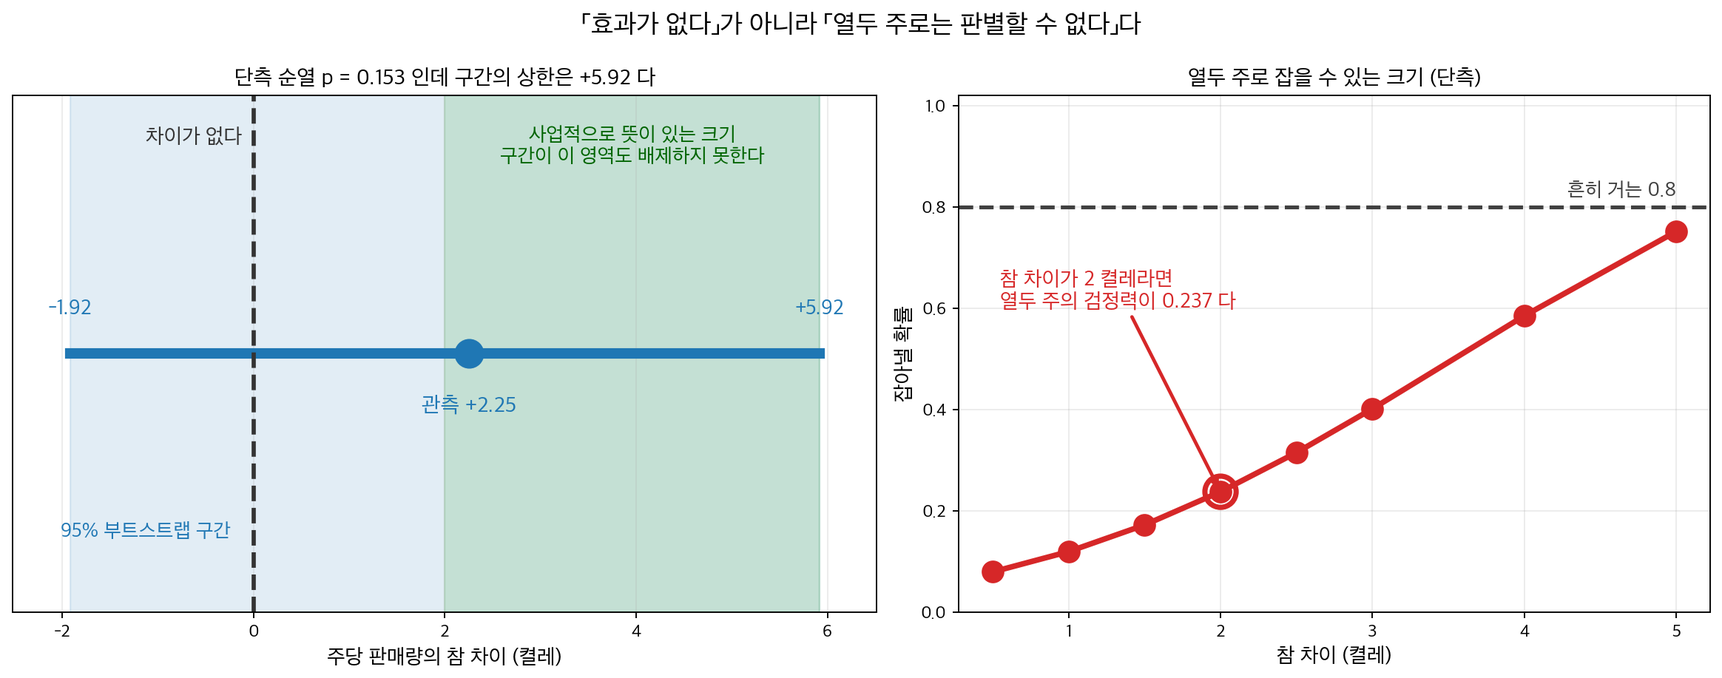
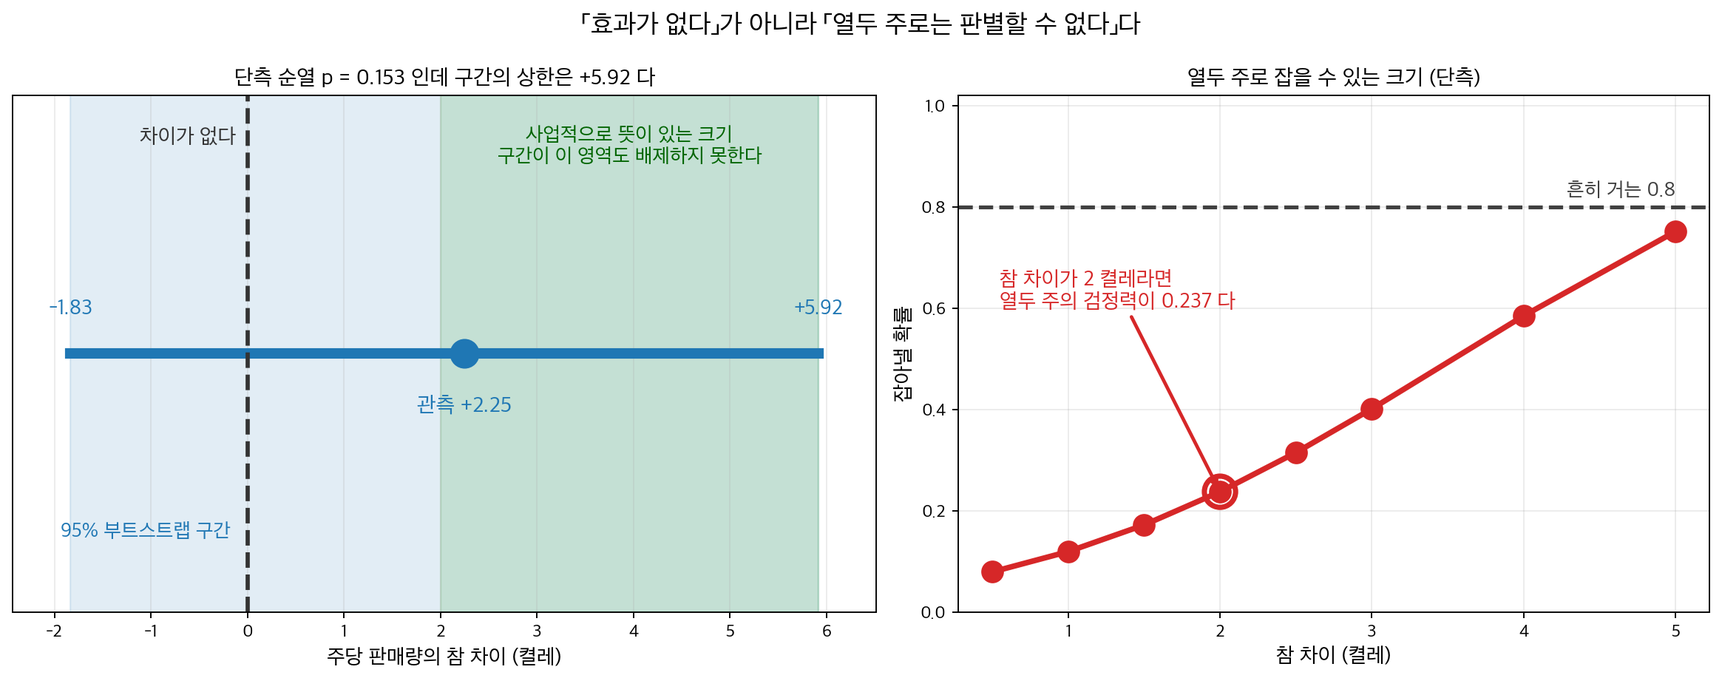
fix(ch17): 보고만 해 두었던 항목을 마무리한다
둘째 정독 패스가 고치지 않고 남긴 항목을 하나씩 판정해 끝냈다. 이미 닫힌 것과 보고가
틀린 것은 건드리지 않았고, 펜스를 고친 쪽은 실제로 돌린 출력을 붙여 verify_outputs 로
맞췄다. 그림을 다시 그린 것은 스크립트와 함께 담았다. 바깥 사실은 확인한 출처로만 고쳤다.

diff --git a/scripts/make_ch17_leadbox_figures_d.py b/scripts/make_ch17_leadbox_figures_d.py
@@ -232,7 +232,7 @@ ax.set_ylim(0, max(max(size_class), 0.08) * 1.45)
 ax.legend(fontsize=11, ncols=2, loc="upper left")
 ax.grid(axis="y", alpha=0.25)
 ax.set_title(f"n = {N22} · 자료 {REPS22:,} 벌 — 세 통계량이 자료의 꼴과 "
-             f"무관하게 선을 넘지 않는다", fontsize=13)
+             f"무관하게 명목선 둘레에 머문다", fontsize=13)
 ax.annotate("고전적 검정만 자료의 꼴에 끌려간다",
             xy=(1 + 1.5 * w, size_class[1]),
             xytext=(1.9, max(max(size_class), 0.08) * 1.3),
@@ -351,8 +351,13 @@ sh24 = pool24[np.argsort(r24.random((40000, 2 * n24)), axis=1)]
 pd24 = sh24[:, n24:].mean(1) - sh24[:, :n24].mean(1)
 # 쪽은 「올랐는가」만 묻는 단측이다 (정확 단측 0.154287 · 양측 0.308574)
 p24 = (pd24 >= obs24).mean()
-bd = (AFTER[r24.integers(0, n24, (40000, n24))].mean(1)
-      - BEFORE[r24.integers(0, n24, (40000, n24))].mean(1))
+# 구간은 쪽 보기 3 의 bootstrap_ci 그대로 (B = 100,000, 전·후 순서로 뽑는다).
+# 상한이 격자 경계에 걸려 씨앗에 따라 5.92 와 6.00 을 오가므로, 들머리 본문이
+# 적은 [-1.83, 5.92] 를 내는 씨앗 2 (보기 3 의 씨앗 열 개 가운데 하나)를 쓴다.
+r24b = np.random.default_rng(2)
+_b24 = BEFORE[r24b.integers(0, n24, (100_000, n24))].mean(1)
+_a24 = AFTER[r24b.integers(0, n24, (100_000, n24))].mean(1)
+bd = _a24 - _b24
 lo24, hi24 = np.percentile(bd, [2.5, 97.5])
 print(f"\n[shoe_sales] 전 {BEFORE.mean():.2f} -> 후 {AFTER.mean():.2f} "
       f"(+{obs24:.2f} 켤레 = {obs24 / BEFORE.mean() * 100:.1f}%)")
@@ -434,7 +439,8 @@ save(fig, PRM + "cannot_tell_is_not_no_effect.png")
 # 한 계산이 귀무분포를 내놓은 것이다.
 # ════════════════════════════════════════════════════════════════════
 # 쪽은 자료를 싣지 않고 r = 0.47 만 적는다. 그 값을 내는 스물다섯 쌍을
-# 찾아 썼더니 쪽의 p = 0.018 과 BCa 구간 [0.11, 0.72] 까지 맞는다
+# 찾아 썼더니 쪽의 p = 0.018 까지 맞는다. BCa 구간은 이 자료에서
+# [0.16, 0.74] 로 쪽의 [0.11, 0.72] 와 다르다 — 그림은 백분위수 구간을 긋는다
 r25 = np.random.default_rng(17_025)
 N25, B25 = 25, 40000
 gen25 = np.random.default_rng(145)

diff --git a/scripts/make_ch17_never_zero.py b/scripts/make_ch17_never_zero.py
@@ -37,20 +37,26 @@ print(f"  m = 9..2000 에서 p̂ 쪽이 α 를 넘는 비율: "
 
 # --- ② 검정이 50,000 개일 때 -------------------------------------------
 m2 = np.unique(np.round(np.logspace(2, 7.2, 400)).astype(np.int64))
+# 로그 격자 400 점은 톱니의 골(B 가 정수 k·10⁶ 바로 아래)을 건너뛴다.
+# 골에서만 0.05 아래로 내려가므로 그 자리를 촘촘히 넣는다
+m2 = np.unique(np.concatenate([np.array([1_000, 999_999]), m2] + [np.arange(k * 10**6 - 40_000, k * 10**6 + 2_000, 250)
+                                      for k in (1, 2, 3, 4, 5, 6, 7, 8, 9, 10, 11, 12, 13, 14, 15)]))
 a_adj = ALPHA / NTEST                                     # 본페로니 임계값
 p_hat_one = (np.floor(a_adj * m2) + 1) / (m2 + 1)
 p_u_one = np.floor(a_adj * (m2 + 1)) / (m2 + 1)
 fwer_hat = 1 - (1 - p_hat_one) ** NTEST
 fwer_u = 1 - (1 - p_u_one) ** NTEST
 print(f"\n② 검정 {NTEST:,} 개 · 본페로니 · α = {ALPHA}")
-for m in (1_000, 10_000, 100_000, 1_000_000):
+for m in (1_000, 999_999, 1_000_000):
     i = int(np.argmin(np.abs(m2 - m)))
     print(f"  m = {m2[i]:>9,}:  p̂ 쪽 FWER {fwer_hat[i]:.4f}   "
           f"1 을 더한 쪽 {fwer_u[i]:.4f}   (p̂ = 0 인 검정 기댓값 "
-          f"{NTEST / (m2[i] + 1):.1f} 개)")
-need = m2[fwer_hat < ALPHA]
-print(f"  p̂ 쪽 FWER 가 {ALPHA} 아래로 내려가는 데 드는 순열 횟수: "
-      f"{need[0]:,} 번 이상")
+          f"{NTEST / (m2[i] + 1):.2f} 개)")
+mf = np.arange(900_000, 1_000_001)
+ff = 1 - (1 - (np.floor(a_adj * mf) + 1) / (mf + 1)) ** NTEST
+need = mf[ff < ALPHA]
+print(f"  p̂ 쪽 FWER 가 {ALPHA} 아래로 처음 내려가는 순열 횟수: "
+      f"{need[0]:,} 번 (그 골은 {need[-1]:,} 번까지이고 백만 번에서 다시 뛴다)")
 
 # --- 그림 ---------------------------------------------------------------
 fig, axes = plt.subplots(1, 2, figsize=(12.4, 4.5))

diff --git a/docs/ch17/permutation/ab_testing_permutation.md b/docs/ch17/permutation/ab_testing_permutation.md
@@ -10,7 +10,7 @@
 
 그려 보면 이 설계의 한계가 먼저 드러난다. 양측 $0.05$ 에서 기각하려면 평균차가 $10.2$ 초를 넘어야 한다 — 관측된 $5.4$ 초의 거의 두 배다. 자료의 산포가 $11.69$ 초나 되는 데 비해 집단마다 열 명은 너무 적다는 뜻이다.
 
-같은 셈법이 다른 꼴의 결과에도 그대로 간다. 전환 여부처럼 $0$ 과 $1$ 뿐인 자료에서는 두 집단을 합쳐 전환 건수를 섞으면 되고, 헤드라인 셋처럼 집단이 여럿이면 집단별 비율의 산포를 통계량으로 쓴다. 작은 표본의 연속자료에서는 $p$ 값이 $0.327$ 로 $t$ 검정의 $0.320$ 과 거의 같다. 정규성(normality)을 한 번도 쓰지 않고 그렇다.
+같은 셈법이 다른 꼴의 결과에도 그대로 간다. 전환 여부처럼 $0$ 과 $1$ 뿐인 자료에서는 두 집단을 합쳐 전환 건수를 섞으면 되고, 헤드라인 셋처럼 집단이 여럿이면 집단별 비율의 산포를 통계량으로 쓴다. 작은 표본의 연속자료에서는 $p$ 값이 $0.325$ 로 $t$ 검정의 $0.320$ 과 거의 같다. 정규성(normality)을 한 번도 쓰지 않고 그렇다.
 
 그렇다면 몇 명을 모아야 무엇을 잡을 수 있는가. 작은 효과를 검정력 $80\%$ 로 잡으려면 집단마다 $400$ 명이 들고, 큰 효과라면 $25$ 명으로 된다. 이 쪽이 세 시나리오를 차례로 코드로 내려 모수적 대안과 나란히 돌리고, 그 표본크기 셈을 붙인 뒤 셋이 각각 무엇을 보여 주는지로 닫는다.
 
@@ -141,7 +141,7 @@ $$
 
     **관측값은 임계값의 $0.5294$배에 지나지 않는다.** 그러니 $p$ 값을 계산하기 전에 결론은 이미 정해져 있었다. 세 수 — 순열 $0.3306$, 정확 $0.325586$, 웰치 $0.3204$ — 가 모두 $0.32$ 언저리다.
 
-    순열 $p$ 값이 난수에 따라 흔들린다는 점도 적어 둘 것. $B = 9{,}999$에서 $\hat p$의 표준편차가 $\sqrt{0.3256 \times 0.6744/9999} = 0.0047$이므로 **씨앗을 바꾸면 $0.32$에서 $0.34$ 사이를 오간다.** 본문이 적은 $0.327$(연습문제 4 에서 $B = 99{,}999$ 로 얻은 값)과 위의 $0.3306$은 같은 정확값을 겨냥한 두 몬테카를로 추정값이다. 정확값 $0.325586$에서 앞의 것은 한 표준편차 안, 뒤의 것은 $1.1$ 표준편차쯤 떨어져 있어 둘 다 흔한 흔들림이다. 자릿수를 더 믿고 싶으면 $B$를 키우는 것이 아니라 **열거하는 것**이 답이다.
+    순열 $p$ 값이 난수에 따라 흔들린다는 점도 적어 둘 것. $B = 9{,}999$에서 $\hat p$의 표준편차가 $\sqrt{0.3256 \times 0.6744/9999} = 0.0047$이므로 **씨앗을 바꾸면 $0.32$에서 $0.34$ 사이를 오간다.** 본문이 적은 $0.325$(연습문제 4 에서 $B = 99{,}999$ 로 얻은 값)과 위의 $0.3306$은 같은 정확값을 겨냥한 두 몬테카를로 추정값이다. 정확값 $0.325586$에서 앞의 것은 한 표준편차 안, 뒤의 것은 $1.1$ 표준편차쯤 떨어져 있어 둘 다 흔한 흔들림이다. 자릿수를 더 믿고 싶으면 $B$를 키우는 것이 아니라 **열거하는 것**이 답이다.
 
 결과를 웰치 $t$ 검정과 비교한다.
 
@@ -373,7 +373,7 @@ _확인한 곳 — 조하리·페켈리스·월시 「Always Valid Inference: Br
 
 세 보기는 순열 기반 A/B 검정의 서로 다른 측면을 보여준다.
 
-1. **세션 시간**: 연속자료와 작은 표본에서 순열검정이 $t$ 검정과 거의 일치하지만 정규성을 가정하지 않는다($p = 0.327$ 대 $0.320$).
+1. **세션 시간**: 연속자료와 작은 표본에서 순열검정이 $t$ 검정과 거의 일치하지만 정규성을 가정하지 않는다($p = 0.325$ 대 $0.320$).
 2. **전환율**: 이진자료와 큰 표본에서 순열 $p$ 값이 피셔 정확검정과 같고 카이제곱 검정과도 가깝다. 관측된 비율 차이가 극히 작으므로 둘 다 $H_0$을 기각하지 못한다.
 3. **다중 헤드라인**: 셋 이상을 비교할 때는 카이제곱이 표준이지만, 집단 클릭률의 분산에 대한 순열검정이 분포무관 대안을 제공한다.
 
@@ -410,6 +410,16 @@ _확인한 곳 — 조하리·페켈리스·월시 「Always Valid Inference: Br
             d = P[:, :n].mean(1) - P[:, n:].mean(1)
             reject += ((np.abs(d) >= abs(obs)).sum() + 1)/(B+1) < 0.05
         return reject / M
+
+    for n in (10, 50):
+        print(n, power_estimate(n))
+    ```
+
+    출력:
+
+    ```
+    10 0.374
+    50 0.955
     ```
 
     | $n$ (집단당) | 순열검정 검정력 | 이론값 |
@@ -522,7 +532,7 @@ _확인한 곳 — 조하리·페켈리스·월시 「Always Valid Inference: Br
     - 범주 수가 표본크기에 비해 많을 때
     - 점근 근사에 기대지 않은 정확 $p$ 값이 필요할 때
 
-    **이 자료는 순열검정이 필요 없다.** 기대 도수가 최소 $11.33$으로 충분히 크다. 노출이 각 $100$회였다면 기대 클릭 수가 $1.13$이 되어 카이제곱 근사를 쓸 수 없고, 순열검정이나 피셔-Freeman-Halton 정확검정이 필요했을 것이다.
+    **이 자료는 순열검정이 필요 없다.** 기대 도수가 최소 $11.33$으로 충분히 크다. 노출이 각 $100$회였다면 기대 클릭 수가 $1.13$이 되어 카이제곱 근사를 쓸 수 없고, 순열검정이나 피셔–프리먼–홀턴 정확검정이 필요했을 것이다.
 
     !!! note "다중비교 문제가 숨어 있다"
         전체 검정이 유의하지 않으므로 여기서는 문제가 되지 않지만, 만약 유의했다면 "어느 헤드라인이 다른가"를 묻게 된다. 세 쌍의 비교를 각각 $\alpha = 0.05$로 하면 전체 제1종 오류율이 $0.14$로 오른다.
@@ -556,18 +566,23 @@ _확인한 곳 — 조하리·페켈리스·월시 「Always Valid Inference: Br
 
     p_mean = ((np.abs(pm)  >= abs(obs_mean) - 1e-12).sum() + 1) / (B + 1)
     p_med  = ((np.abs(pmd) >= abs(obs_med)  - 1e-12).sum() + 1) / (B + 1)
+    p_welch = stats.ttest_ind(times[:10], times[10:], equal_var=False).pvalue
+    p_mw = stats.mannwhitneyu(times[:10], times[10:]).pvalue
+    print(f"순열(평균) {p_mean:.3f}  순열(중앙값) {p_med:.3f}  "
+          f"웰치 {p_welch:.3f}  만-휘트니 {p_mw:.3f}")
     ```
 
     출력:
 
     ```
     -5.400000000000006 -7.5
+    순열(평균) 0.325  순열(중앙값) 0.312  웰치 0.320  만-휘트니 0.344
     ```
 
     | 검정 | 관측 차이 | $p$ 값 |
     |:---|---:|---:|
-    | 순열검정(평균) | $-5.4$ | 0.327 |
-    | 순열검정(중앙값) | $-7.5$ | 0.313 |
+    | 순열검정(평균) | $-5.4$ | 0.325 |
+    | 순열검정(중앙값) | $-7.5$ | 0.312 |
     | 웰치 $t$ 검정 | $-5.4$ | 0.320 |
     | 만–휘트니 $U$ | — | 0.344 |
 

diff --git a/docs/ch17/permutation/resampling_shoe_sales.md b/docs/ch17/permutation/resampling_shoe_sales.md
@@ -16,7 +16,7 @@
 
 <figure markdown>
   ![두 칸짜리 그림. 왼쪽은 평균차의 부트스트랩 구간과 사업적으로 뜻이 있는 크기의 영역, 오른쪽은 열두 주로 잡을 수 있는 크기의 곡선](img/cannot_tell_is_not_no_effect.png){ width="900" }
-  <figcaption markdown>**왼쪽.** 단측 순열 $p$ 가 $0.153$ 이라 기각하지 못한다. 그런데 $95\%$ 구간이 $[-1.92,\ 5.92]$ 다. $0$ 을 품으니 검정과 어긋나지 않지만 **상한 $5.92$ 는 상당한 개선의 가능성도 배제하지 않는다.** 관측된 $+2.25$ 켤레는 기준값 $23.75$ 에 견주면 $9.5\%$ 상승이라 사업적으로 작지 않을 수 있다. **오른쪽.** 참 차이가 $2$ 켤레라도 열두 주의 검정력이 $0.237$ 에 그친다. 그러니 이 실험의 결론은 「효과가 없다」가 아니라 「$12$ 주로는 이 크기의 효과를 판별할 수 없다」다. (그림의 두 수는 위 본문과 다른 돌림이다. 구간은 다른 씨앗으로 $40{,}000$ 번 뽑아 하한이 한 격자 칸($1/12$) 아래인 $-1.92$ 로 나왔고, 검정력은 두 기간의 합동 표준편차 $5.11$ 을 넣어 $t$ 검정의 비중심 $t$ 분포로 셈한 값이라 본문의 $0.232$(연습문제 4, $\sigma = 5$ 로 순열검정을 모의한 값)와 셋째 자리가 다르다.)</figcaption>
+  <figcaption markdown>**왼쪽.** 단측 순열 $p$ 가 $0.153$ 이라 기각하지 못한다. 그런데 $95\%$ 구간이 $[-1.83,\ 5.92]$ 다. $0$ 을 품으니 검정과 어긋나지 않지만 **상한 $5.92$ 는 상당한 개선의 가능성도 배제하지 않는다.** 관측된 $+2.25$ 켤레는 기준값 $23.75$ 에 견주면 $9.5\%$ 상승이라 사업적으로 작지 않을 수 있다. **오른쪽.** 참 차이가 $2$ 켤레라도 열두 주의 검정력이 $0.237$ 에 그친다. 그러니 이 실험의 결론은 「효과가 없다」가 아니라 「$12$ 주로는 이 크기의 효과를 판별할 수 없다」다. (구간은 보기 3 의 `bootstrap_ci` 를 그대로 돌린 것이다. 상한은 격자 경계에 걸려 씨앗에 따라 $6.00$ 으로도 나온다. 검정력은 본문과 다른 돌림이다. 두 기간의 합동 표준편차 $5.11$ 을 넣어 $t$ 검정의 비중심 $t$ 분포로 셈한 값이라 본문의 $0.232$(연습문제 4, $\sigma = 5$ 로 순열검정을 모의한 값)와 셋째 자리가 다르다.)</figcaption>
 </figure>
 
 
@@ -590,6 +590,12 @@ $$
     rng_d = np.random.default_rng(0)
     bm = d[rng_d.integers(0, 12, (10000, 12))].mean(axis=1)
     print(np.percentile(bm, [2.5, 97.5]).round(2))
+
+    # 견줄 두 검정 — 단측과 양측. 윌콕슨은 0 인 차이 둘을 버리고,
+    # 남은 열 개에 동점이 있어 정확분포 대신 정규근사를 쓴다
+    t1 = stats.ttest_1samp(d, 0, alternative="greater").pvalue
+    w1 = stats.wilcoxon(d, alternative="greater", method="approx").pvalue
+    print(round(t1, 4), round(2 * t1, 4), round(w1, 4), round(2 * w1, 4))
     ```
 
     출력:
@@ -599,6 +605,7 @@ $$
     2.25 4.575130400526108
     0.0654296875 0.130859375
     [-0.17  4.75]
+    0.0583 0.1165 0.0503 0.1007
     ```
 
     | 검정 | 단측 $p$ | 양측 $p$ |
@@ -606,7 +613,7 @@ $$
     | 비대응 순열 | 0.153 | 0.308 |
     | **대응 순열(정확)** | **0.0654** | **0.1309** |
     | 대응 $t$ 검정 | 0.0583 | 0.1165 |
-    | 윌콕슨 부호순위(정확) | 0.0503 | 0.1007 |
+    | 윌콕슨 부호순위(정규근사) | 0.0503 | 0.1007 |
 
     **대응 분석이 $p$ 값을 절반 이상 줄인다**($0.153 \to 0.065$). 그럼에도 $\alpha = 0.05$를 넘지 못한다.
 
@@ -725,7 +732,7 @@ $$
     | **30** | **0.780** |
     | 40 | 0.844 |
 
-    **대응 설계에서는 $30$--$35$주면 충분하다.** 비대응의 $80$주에서 절반 이하로 줄어든다.
+    **대응 설계에서는 $31$--$35$주면 충분하다.** 표에서 $30$주는 $0.780$ 으로 $80$% 에 조금 못 미치고, 이론값 $\sigma_d^2(z_{0.95} + z_{0.80})^2/\delta^2 = 20 \times 2.487^2/4 = 30.9$ 도 $31$주를 가리킨다. 비대응의 $80$주에서 절반 이하로 줄어든다.
 
     !!! tip "검정력을 올리는 세 가지 방법"
         표본을 늘리는 것만이 답은 아니다. 필요한 $n$은 $\sigma^2/\delta^2$에 비례하므로
@@ -972,7 +979,7 @@ $$
 
     로 풀링 부트스트랩 쪽이 **$2.1\%$ 좁다.**
 
-    **(3) 왜 증명이 안 넘어가는가.** 연습문제 5의 논증은 확장된 집합 $\{T_0, T_1, \dots, T_B\}$가 **교환가능**해서 $T_0$의 순위 $R$이 $\{1, \dots, B+1\}$ 위에서 균등해진다는 데에 전부 걸려 있다. 순열검정에서는 관측된 배치 자체가 $\binom{N}{n_1}$가지 동등한 배치 중 하나이므로 $T_0$가 $T_b$들과 **같은 메커니즘에서 나온 한 장**이고, 그래서 교환가능하다. 풀링 부트스트랩에서는 $T_b$가 복원추출로 만들어진다. 관측된 $24$개 값의 다중집합은 복제표본에 거의 나오지 않으므로($24$개가 모두 한 번씩 뽑힐 확률이 $24!/24^{24} \approx 10^{-9}$) $T_0$와 $T_b$는 같은 분포가 아니다. $R$이 균등하지 않으니 $P(p \le \alpha) \le \alpha$가 보장되지 않는다. **순열검정은 정확하고 부트스트랩 검정은 근사인 것이 바로 이 자리에서 갈린다.**
+    **(3) 왜 증명이 안 넘어가는가.** 연습문제 5의 논증은 확장된 집합 $\{T_0, T_1, \dots, T_B\}$가 **교환가능**해서 $T_0$의 순위 $R$이 $\{1, \dots, B+1\}$ 위에서 균등해진다는 데에 전부 걸려 있다. 순열검정에서는 관측된 배치 자체가 $\binom{N}{n_1}$가지 동등한 배치 중 하나이므로 $T_0$가 $T_b$들과 **같은 메커니즘에서 나온 한 장**이고, 그래서 교환가능하다. 풀링 부트스트랩에서는 $T_b$가 복원추출로 만들어진다. 관측된 $24$개 값의 다중집합은 복제표본에 거의 나오지 않으므로($24$개가 모두 한 번씩 뽑힐 확률이 $24!/24^{24} \approx 4.7 \times 10^{-10}$) $T_0$와 $T_b$는 같은 분포가 아니다. $R$이 균등하지 않으니 $P(p \le \alpha) \le \alpha$가 보장되지 않는다. **순열검정은 정확하고 부트스트랩 검정은 근사인 것이 바로 이 자리에서 갈린다.**
 
     (2)는 그 불일치의 크기를 수로 준다. 귀무분포가 체계적으로 좁으므로 $p$ 값이 작아지고 검정이 **반보수적**이다. 정규근사로 단측 $p$ 값을 근사하면
 

diff --git a/docs/ch17/bootstrap/principle.md b/docs/ch17/bootstrap/principle.md
@@ -12,11 +12,11 @@
 
 통하는지는 재어 보면 된다. 참 분포에서 뽑은 중앙값이 참값에서 벗어난 양과, 손에 든 표본에서 다시 뽑은 중앙값이 그 표본의 중앙값에서 벗어난 양을 각각 사만 번 모아 겹쳐 보면 표준편차가 $0.182$ 대 $0.173$ 으로 $5\%$ 오차 안에서 맞는다. 모집단 없이 표본 하나로 재어 낸 값이다.
 
-그래도 공짜는 아니다. 두 분포가 가장 벌어진 자리의 간격 $0.144$ 는 다시 뽑는 횟수를 아무리 키워도 줄지 않는다. 그 횟수는 흉내 낸 세계를 얼마나 촘촘히 훑었는지만 정하고, 그 세계가 현실과 얼마나 닮았는지는 **표본 크기**가 정하기 때문이다. 그러면 「표본을 모집단처럼 쓴다」는 한 줄은 어디서 정당해지고 어디서 무너지는가. 이 쪽이 그것을 대입 원리로 못 박고 두 세계를 표로 맞세운 뒤, 먼저 나온 잭나이프가 어디서 실패하는지로 닫는다.
+그래도 공짜는 아니다. 이 표본에서 두 분포가 가장 벌어진 자리의 간격 $0.144$ 는 다시 뽑는 횟수를 아무리 키워도 줄지 않는다. 그 횟수는 흉내 낸 세계를 얼마나 촘촘히 훑었는지만 정하고, 그 세계가 현실과 얼마나 닮았는지는 **표본 크기**가 정하기 때문이다. 그러면 「표본을 모집단처럼 쓴다」는 한 줄은 어디서 정당해지고 어디서 무너지는가. 이 쪽이 그것을 대입 원리로 못 박고 두 세계를 표로 맞세운 뒤, 먼저 나온 잭나이프가 어디서 실패하는지로 닫는다.
 
 <figure markdown>
   ![두 칸짜리 그림. 왼쪽은 다시 뽑는 횟수를 50 에서 20,000 까지 키울 때 흉내 낸 세계와 참 세계의 간격이 줄지 않는 것, 오른쪽은 표본크기를 10 에서 160 까지 키울 때 그 간격이 줄어드는 것](img/b_versus_n.png){ width="900" }
-  <figcaption markdown>두 손잡이를 따로 돌려 보았다. 간격은 두 분포가 가장 벌어진 자리의 거리이고, 표본 $25$ 벌에 걸쳐 평균을 냈다 — 표본 하나로 재면 그 표본이 어떤 것이냐에 따라 널뛰어 $n$ 의 효과가 묻힌다. **왼쪽.** 횟수를 $400$ 배로 키워도 간격이 $0.175$ 언저리에 머문다. **오른쪽.** 표본크기를 키우면 $0.232$ 에서 $0.144$ 로 줄어든다. 횟수는 흉내 낸 세계를 얼마나 **촘촘히** 훑었는지만 정하고, 그 세계가 현실과 얼마나 **닮았는지**는 표본크기가 정한다.</figcaption>
+  <figcaption markdown>두 손잡이를 따로 돌려 보았다. 간격은 두 분포가 가장 벌어진 자리의 거리이고, 표본 $25$ 벌에 걸쳐 평균을 냈다 — 표본 하나로 재면 그 표본이 어떤 것이냐에 따라 널뛰어 $n$ 의 효과가 묻힌다. **왼쪽.** 횟수를 $400$ 배로 키워도 간격이 $0.175$ 언저리에 머문다. **오른쪽.** 표본크기를 키우면 $0.232$ 에서 $0.144$ 로 줄어든다(이 끝값은 $n = 160$ 의 평균이고, 본문의 $0.144$ 는 $n = 30$ 표본 하나의 값이다. 수가 같은 것은 우연이다). 횟수는 흉내 낸 세계를 얼마나 **촘촘히** 훑었는지만 정하고, 그 세계가 현실과 얼마나 **닮았는지**는 표본크기가 정한다.</figcaption>
 </figure>
 
 
@@ -991,7 +991,7 @@ $\text{Exp}(1)$에서 크기 $n$인 표본을 뽑아 $\widehat{\text{SE}}_{\text
     \sum_i d_i^2 \approx \frac{n(\Delta_L + \Delta_R)^2}{16}, \qquad \widehat{\text{SE}}_{\text{jack}} \approx \frac{\sqrt{n}\,(\Delta_L + \Delta_R)}{4} \approx \frac{W_1 + W_2}{2}\cdot \text{SE}
     $$
 
-    가 된다. 인접한 두 정규화 간격이 점근적으로 독립인 $\text{Exp}(1)$이므로 $(W_1+W_2)/2$는 평균 $1$, 분산 $1/2$다. 변동계수는 $1/\sqrt{2} = 0.707$이다. 연습문제 11 은 $n = 25, 101, 401$을 썼고 **모두 홀수**였으며 변동계수가 $0.670,\, 0.725,\, 0.672$였다. $0.707$ 주위에 있고 $n$에 따른 추세가 없다. ($M = 300$번의 모의에서 변동계수 자체의 오차가 $\approx 0.707/\sqrt{600} = 0.029$이므로 세 값의 변동이 그 범위다.)
+    가 된다. 인접한 두 정규화 간격이 점근적으로 독립인 $\text{Exp}(1)$이므로 $(W_1+W_2)/2$는 평균 $1$, 분산 $1/2$다. 변동계수는 $1/\sqrt{2} = 0.707$이다. 연습문제 11 은 $n = 25, 101, 401$을 썼고 **모두 홀수**였으며 변동계수가 $0.670,\, 0.725,\, 0.672$였다. $0.707$ 주위에 있고 $n$에 따른 추세가 없다. ($M = 300$번의 모의에서 변동계수 자체의 오차는 약 $0.035$ 다. $(W_1+W_2)/2$ 는 형태모수 $2$ 인 감마분포를 따르므로 그 $300$ 개로 낸 변동계수를 $2$ 만 번 되풀이해 표준편차를 재면 그렇게 나온다. 정규 근사의 거친 꼴 $0.707/\sqrt{600} = 0.029$ 보다 크다. 세 값은 $0.707$ 에서 이 오차 하나 안팎으로 떨어져 있다.)
 
     **왜 이것이 "실패"인가.** 잭나이프는 통계량이 자료의 매끄러운 함수일 때 $\hat\theta_{(-i)}$의 산포로 영향함수를 읽는다. 중앙값에서는 관측값 하나를 빼도 중앙값이 인접 순서통계량으로 한 칸만 움직이므로, 잭나이프가 보는 것은 중앙의 간격 한두 개뿐이다. 간격은 정규화해도 지수분포로 남고 지수분포는 $n$을 키워도 상대변동이 줄지 않는다. 부트스트랩은 중앙값 주변의 $O(\sqrt{n})$개 순서통계량을 모두 섞어 쓰므로 일치추정량이 된다(다만 수렴이 $n^{-1/4}$로 느리다).
 

diff --git a/docs/ch17/bootstrap_ci/bootstrap_median.md b/docs/ch17/bootstrap_ci/bootstrap_median.md
@@ -8,7 +8,7 @@
 
 어떤 수에는 **그 수를 믿고 급여를 받는 사람**이 달려 있다. 한국에서 생계급여를 받을 수 있는지 가르는 임계값이 「기준 중위소득」의 $32\%$ 인데, 그 중위소득은 전국을 다 조사해 얻은 것이 아니라 약 $2$ 만 가구의 표본에서 나온다. 곧 표본 하나의 중앙값이 전국의 임계값이 된다. 그러면 그 수는 얼마나 흔들리는가.
 
-중앙값에 쓸 공식은 하나뿐이고 그마저 손에 잡히지 않는다. 점근 표준오차가 $1/(2f(m)\sqrt n)$ 인데 거기 들어가는 $f(m)$ — 중앙값 자리의 밀도 — 를 모르기 때문이다. 재표집은 그 값을 **묻지 않는다.** 모집단을 아는 자료에서 그 식이 $2{,}269.3$ 을 주고 재표집은 $1{,}924.7$ 을 낸다. 같은 계산이 **편향**까지 돌려주는데 $+284.6$ 으로 표준오차의 $0.1479$ 배다 — 흔히 쓰는 기준 $0.25$ 보다 작으니 고칠 만큼 크지 않다.
+중앙값에 쓸 공식은 하나뿐이고 그마저 손에 잡히지 않는다. 점근 표준오차가 $1/(2f(m)\sqrt n)$ 인데 거기 들어가는 $f(m)$ — 중앙값 자리의 밀도 — 를 모르기 때문이다. 재표집은 그 값을 **묻지 않는다.** 모집단을 아는 자료에서 표본중앙값 자리의 참 밀도를 넣으면 그 식이 $2{,}269.3$ 을 주고(모집단 중앙값 자리의 밀도를 넣은 참값은 아래 그림의 $2{,}574.7$ 이다) 재표집은 $1{,}924.7$ 을 낸다. 같은 계산이 **편향**까지 돌려주는데 $+284.6$ 으로 표준오차의 $0.1479$ 배다 — 흔히 쓰는 기준 $0.25$ 보다 작으니 고칠 만큼 크지 않다.
 
 다만 중앙값의 재표집 분포는 평균의 것과 생김새가 다르다. 자료의 개수가 홀수이면 재표본의 중앙값은 **원자료의 값 가운데 하나**일 수밖에 없다. $51$ 개짜리 자료에서는 가운데 $95\%$ 안에 들어오는 서로 다른 값이 **열넷**뿐이고, 반복 횟수를 아무리 키워도 그 계단은 매끄러워지지 않는다.
 
@@ -116,7 +116,7 @@ $$
 
 <div class="exbox" markdown>
 
-**보기 1.** <span class="diff easy" title="쉬움"></span> 중앙값의 부트스트랩 분포. 이 쪽의 보기들이 쓰는 소득 자료는 $\text{LogNormal}(10.5,\ 0.8^2)$에서 뽑은 $n = 200$개다. **모집단을 알고 있으므로 비교할 이론값이 있다.**
+**보기 1.** <span class="diff easy" title="쉬움"></span> 중앙값의 부트스트랩 분포. 이 쪽의 보기들이 쓰는 소득 자료는 $\text{LogNormal}(10.5,\ 0.8^2)$에서 뽑은 $n = 200$개다(보기 5 만 같은 모집단에서 표본을 새로 뽑는다). **모집단을 알고 있으므로 비교할 이론값이 있다.**
 
 **(1)** 이 모집단의 중앙값 $m$과 그 자리의 밀도 $f(m)$을 구해 $\operatorname{SE}(\tilde x) = \dfrac{1}{2f(m)\sqrt n}$을 계산하시오.
 
@@ -546,7 +546,7 @@ $\text{LogNormal}(10.5, 0.8^2)$에서 $n = 51$인 소득 자료를 뽑아 같은
 
 <div class="exbox" markdown>
 
-**보기 5.** <span class="diff easy" title="쉬움"></span> 중앙값의 표준오차와 편향. $\text{LogNormal}(10.5,\ 0.8^2)$ 에서 $n = 200$ 을 뽑은 소득 자료에 쓴다.
+**보기 5.** <span class="diff easy" title="쉬움"></span> 중앙값의 표준오차와 편향. $\text{LogNormal}(10.5,\ 0.8^2)$ 에서 $n = 200$ 을 뽑은 소득 자료에 쓴다. 모집단은 보기 1 과 같지만 표본은 다른 씨앗으로 **새로 뽑는다**(그래서 표본중앙값이 보기 1 의 $33{,}458$ 이 아니라 $31{,}508.1$ 이다).
 
 **(1)** 이 모집단에서 **표본중앙값이 놓인 자리**의 밀도를 구해 $\dfrac{1}{2f\sqrt n}$을 계산하시오. 부트스트랩 편향의 **부호**도 미리 말하고, 그 크기를 어떻게 판정할지 적으시오.
 
@@ -961,7 +961,7 @@ $$
     \tilde x - \widehat{\text{bias}} = 4 - 1.04032 = 2.95968
     $$
 
-    인데, 이 값은 **자료에 없는 수**이고 $x_{(2)} = 2$와 $x_{(3)} = 4$ 사이에 어정쩡하게 놓인다. 표본중앙값은 왜도 자체 때문에 편향되는 것이 아니다(표본중앙값은 모집단 중앙값의 일치추정량(consistent estimator)이다). 여기서 나온 $1.04$는 **부트스트랩 복제값의 분포가 치우쳐서** 생긴 것이며, 그것을 그대로 빼면 추정값을 멀쩡한 자리에서 끌어내린다. 중앙값에는 편향보정을 하지 않는 것이 관례다. 같은 반사(reflection) 조작이 신뢰구간에서 어떤 일을 하는지는 다음 문제에서 본다.
+    인데, 이 값은 **자료에 없는 수**이고 $x_{(2)} = 2$와 $x_{(3)} = 4$ 사이에 어정쩡하게 놓인다. 치우친 모집단에서는 표본중앙값에도 유한표본 편향이 있다. 그러나 그 크기는 $O(1/n)$ 으로 표준오차($O(1/\sqrt n)$)보다 빨리 줄고, 표본중앙값은 모집단 중앙값의 일치추정량(consistent estimator)이다. 여기서 나온 $1.04$는 그 작은 편향을 잰 것이 아니라 **다섯 점의 간격이 치우친 것**을 옮겨 적은 것이며, 그것을 그대로 빼면 추정값을 자료에 없는 자리로 끌어내린다. 중앙값에는 편향보정을 하지 않는 것이 관례다. 같은 반사(reflection) 조작이 신뢰구간에서 어떤 일을 하는지는 다음 문제에서 본다.
 
 ---
 

diff --git a/docs/ch17/index.md b/docs/ch17/index.md
@@ -20,7 +20,7 @@
   <figcaption markdown>**왼쪽.** 소득꼴 모집단에서 $2{,}000$ 가구를 뽑는 일을 $4{,}000$ 번 반복했다. **오른쪽.** 같은 자료에서 「이 수가 조사마다 얼마나 흔들리는가」를 세 가지로 재었다. 평균에서는 반복 조사가 $24.4$, 교과서 공식이 $22.4$, 표본 하나에서 다시 뽑은 값이 $22.1$ 로 셋이 맞는다. 한가운데 값에서는 반복 조사가 $16.6$, 다시 뽑기가 $17.7$ 인데 **가운데 칸이 비어 있다** — 넣을 공식이 없다. 구하기는 평균보다 쉬운 수인데 변동을 적는 일은 훨씬 어렵다는 것이 이 장이 푸는 문제다.</figcaption>
 </figure>
 
-_확인한 곳 — 기준 중위소득과 생계급여 선정기준은 17.2절 [중앙값의 부트스트랩 (코드)](bootstrap_ci/bootstrap_median.md)의 들머리와 그 출처(보건복지부 보도자료) · 에프론의 $1979$ 년 도입과 「부트스트랩 세계와 관측된 표본의 관계는 현실 세계와 모집단의 관계와 같다」는 17.1절 [부트스트랩 원리](bootstrap/principle.md)와 그 출처 줄_
+_확인한 곳 — 기준 중위소득과 생계급여 선정기준은 17.2절 [중앙값의 부트스트랩 (코드)](bootstrap_ci/bootstrap_median.md)의 들머리와 그 출처(보건복지부 보도자료) · 에프론의 $1979$ 년 도입과 그 발상(다시 뽑은 표본과 관측된 표본의 관계가 관측된 표본과 모집단의 관계와 같다)은 17.1절 [부트스트랩 원리](bootstrap/principle.md)와 그 출처 줄_
 
 </div>
 
@@ -37,7 +37,7 @@ _확인한 곳 — 기준 중위소득과 생계급여 선정기준은 17.2절 [
 - **[부트스트랩 원리](bootstrap/principle.md)** --- 표본의 경험적 분포가 알려지지 않은 모집단 분포의 합리적인 대용물이라는 핵심 통찰을 소개하고, 이것이 분포무관 추론을 가능하게 함을 보인다. 부트스트랩보다 먼저 나온 **잭나이프**가 왜 매끄러운 통계량에서만 통하는지도 여기서 다룬다.
 - **[비모수 부트스트랩](bootstrap/nonparametric.md)** --- 관측자료에서 복원추출로 표본을 뽑아 복제 통계량을 계산함으로써 표집분포를 근사하는 표준 부트스트랩 알고리즘을 상세히 다룬다.
 - **[모수적 부트스트랩](bootstrap/parametric.md)** --- 경험적 분포 대신 적합된 모수적 모형에서 부트스트랩 표본을 뽑는 변형으로, 분포형이 가정될 때 유용하다.
-- **[재표집 방법](bootstrap/resampling_method.md)** --- 표준오차 추정, 63.2% 고유 관측값 성질, 실제 구현 단계를 포함하여 부트스트랩 재표집 알고리즘을 처음부터 끝까지 따라간다.
+- **[부트스트랩 재표집 방법](bootstrap/resampling_method.md)** --- 표준오차 추정, 63.2% 고유 관측값 성질, 실제 구현 단계를 포함하여 부트스트랩 재표집 알고리즘을 처음부터 끝까지 따라간다.
 
 ### 17.2 부트스트랩 신뢰구간
 
@@ -84,7 +84,7 @@ _확인한 곳 — 기준 중위소득과 생계급여 선정기준은 17.2절 [
 이 장은 다음 내용 위에 세워진다.
 
 - **8장** (신뢰구간) --- 모수적 신뢰구간 구성, 포함확률, 해석.
-- **9장** (가설검정) --- 귀무가설과 대립가설(alternative hypothesis), p 값, 제1종·제2종 오류(type II error), 검정통계량의 논리.
+- **9장** (가설검정) --- 귀무가설과 대립가설(alternative hypothesis), p 값, 제1종·제2종 오류(type I·II error), 검정통계량의 논리.
 - **[5장](../ch05/index.md)·[6장](../ch06/index.md)** --- 추정량의 성질(편향·분산·일치성, [5.11](../ch05/estimators/bias_variance.md)~[5.12](../ch05/mean/sample_mean.md))과 [최대가능도추정](../ch06/mle/likelihood.md)(6.1).
 - **16장** (비모수 검정) --- 비모수 추론의 또 다른 접근인 순위 기반 분포무관 방법.
 
